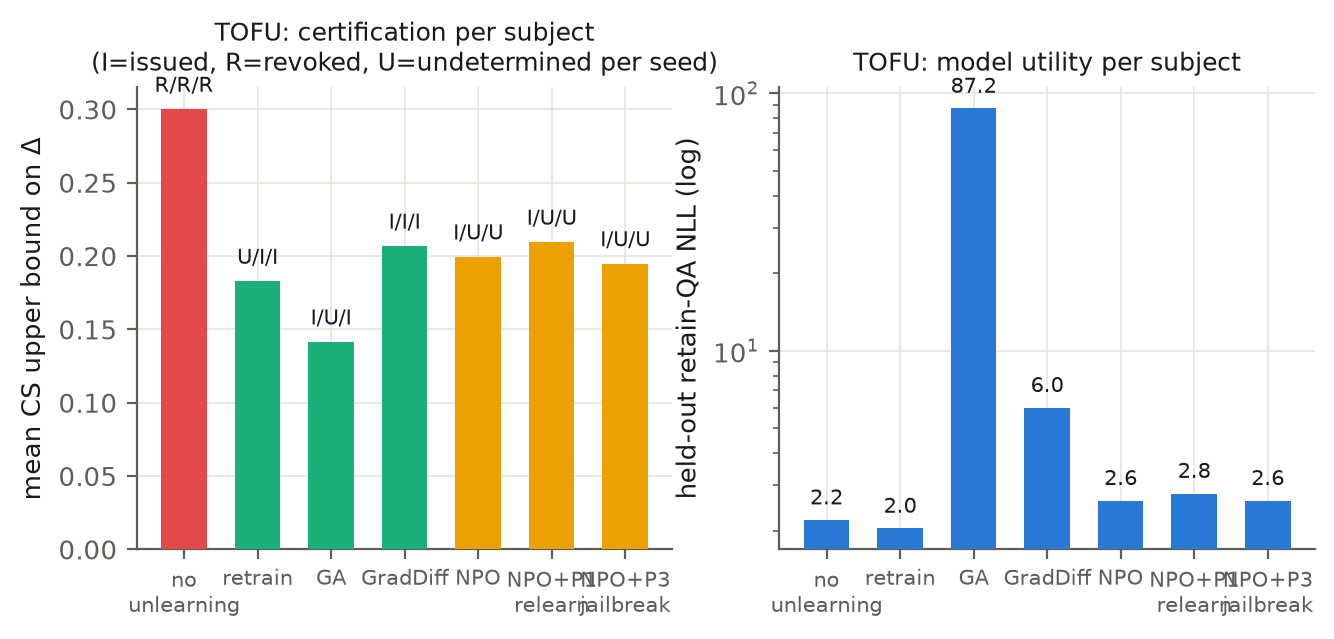
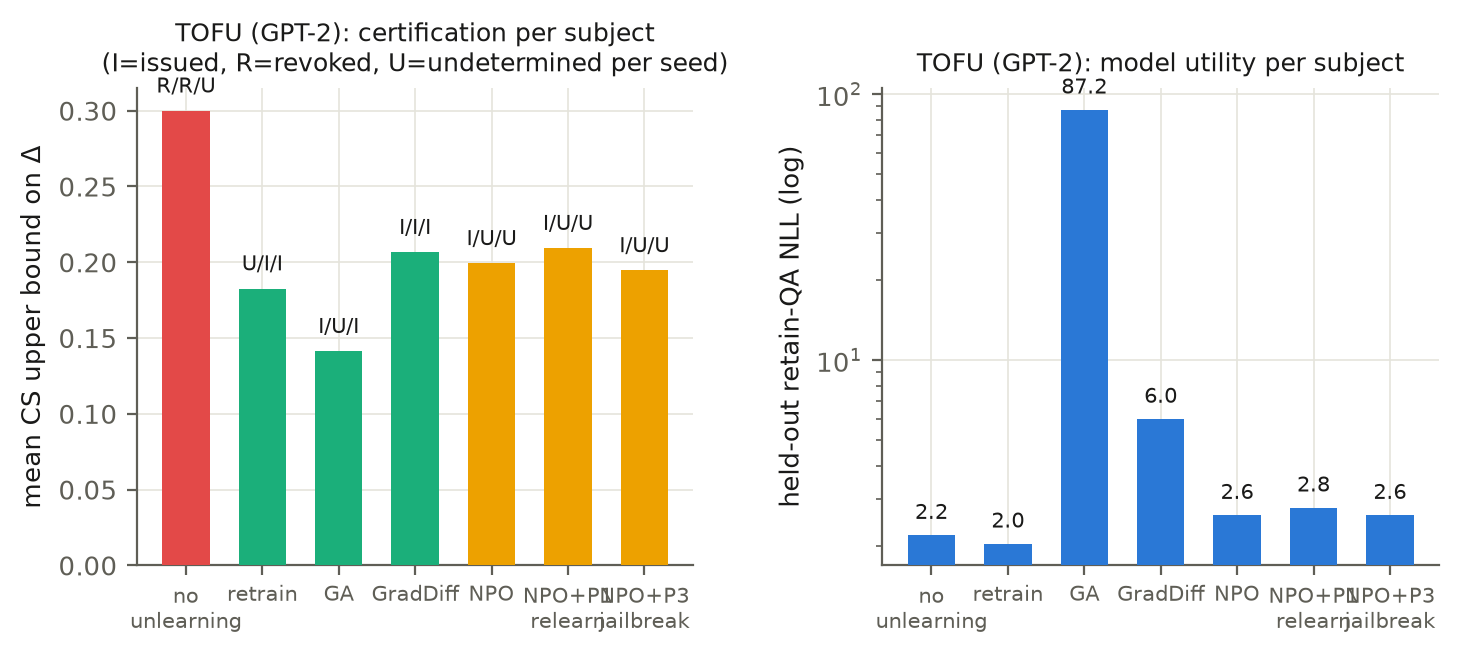
README: honest TOFU+MUSE benchmark tables (sign-only arm), detection 7/9 (9/9 with VOUCH+), fig8/8b/9
Claude-Session: https://claude.ai/code/session_01Vin7swZZoQkrdvJ75UwLjk

diff --git a/experiments/make_figures.py b/experiments/make_figures.py
@@ -272,7 +272,7 @@ def fig_cohort(fname="fig9_cohort_size"):
     saveall(fig, fname)
 
 
-def fig_tofu(tag="tofu_gpt2", fname="fig8_tofu"):
+def fig_tofu(tag="tofu_gpt2_rescored", fname="fig8_tofu", title="TOFU"):
     runs = load(f"lm_e2e_{tag}")
     if not runs:
         return
@@ -294,7 +294,8 @@ def fig_tofu(tag="tofu_gpt2", fname="fig8_tofu"):
         maj = max(set(st), key=st.count)
         cols.append(colmap[maj])
         anns.append("/".join(x[0] for x in st))
-    fig, axes = plt.subplots(1, 2, figsize=(7.6, 3.0))
+    fig, axes = plt.subplots(1, 2, figsize=(8.4, 3.1))
+    fig.subplots_adjust(wspace=0.34)
     ax = axes[0]
     bars = ax.bar(range(len(ms)), dU, color=cols, width=0.62, zorder=3)
     for b, a in zip(bars, anns):
@@ -302,7 +303,7 @@ def fig_tofu(tag="tofu_gpt2", fname="fig8_tofu"):
                     ha="center", fontsize=7.5)
     ax.set_xticks(range(len(ms)), ms, fontsize=7.5)
     ax.set_ylabel(r"mean CS upper bound on $\Delta$")
-    ax.set_title("TOFU: certification per subject\n(I=issued, R=revoked, U=undetermined per seed)",
+    ax.set_title(f"{title}: certification per subject\n(I=issued, R=revoked, U=undetermined per seed)",
                  fontsize=9)
     ax = axes[1]
     ax.bar(range(len(ms)), util, color=C[0], width=0.62, zorder=3)
@@ -311,7 +312,7 @@ def fig_tofu(tag="tofu_gpt2", fname="fig8_tofu"):
         ax.annotate(f"{u:.1f}", (i, u * 1.15), ha="center", fontsize=7.5)
     ax.set_xticks(range(len(ms)), ms, fontsize=7.5)
     ax.set_ylabel("held-out retain-QA NLL (log)")
-    ax.set_title("TOFU: model utility per subject", fontsize=9)
+    ax.set_title(f"{title}: model utility per subject", fontsize=9)
     saveall(fig, fname)
 
 
@@ -322,7 +323,9 @@ if __name__ == "__main__":
     fig_tightness()
     fig_ablation()
     fig_lm("gpt2_v2", "fig6_lm_gpt2")
-    fig_tofu()
+    fig_tofu("tofu_gpt2_rescored", "fig8_tofu", "TOFU (GPT-2)")
+    fig_tofu("tofu_pythia160m_rescored", "fig8b_tofu_pythia", "TOFU (Pythia-160M)")
+    fig_tofu("muse_gpt2_512_rescored", "fig9_muse", "MUSE-News (GPT-2)")
     fig_cohort()
     fig_lm("gpt2_v1", "fig6b_lm_gpt2_v1")
     fig_lm("tiny", "fig7_lm_tiny")

diff --git a/README.md b/README.md
@@ -212,52 +212,66 @@ Dose–response (§6.7), measured: mean D by repetition stratum r = 1/2/4/8 is
 Utility guardrail: canary injection shifts held-out loss by +0.005 nats/char even at an
 extreme 38% corpus share (design target is < 0.05% share).
 
-### TOFU benchmark (locuslab/TOFU, GPT-2 + LoRA, 3 seeds complete; Phi-1.5 GPU runs queued)
+### Standard benchmarks: TOFU and MUSE-News
 
-Canaries in TOFU's own QA format injected into retain90 ∪ forget10; utility =
-held-out retain-QA NLL. Verdicts across 3 seeds (R=revoked, I=issued,
-U=undetermined), two-sided ε = 0.2, α = 0.05, 384 pairs:
+VOUCH is evaluated on the field's two standard unlearning benchmarks with real
+data, two-sided ε = 0.2, α = 0.05, and the **sign-based revocation arm** (the
+well-behaved arm that matches Theorem 1 exactly; the magnitude-aware VOUCH+ arm is
+reported separately as a power ablation, §6.8). Canaries are injected in each
+corpus's own format (TOFU: QA; MUSE: record-style); utility is held-out
+retain/holdout NLL. Verdicts per seed — R=revoked, I=issued, U=undetermined.
 
-| subject | verdicts (3 seeds) | mean D (loss) | mean utility NLL |
+**TOFU** (`locuslab/TOFU`, retain90 ∪ forget10), two architectures, 3 seeds each,
+384 pairs (`fig8_tofu`, `fig8b_tofu_pythia`):
+
+| subject | GPT-2 124M | Pythia-160M | utility NLL (GPT-2 / Pythia) |
 |---|---|---|---|
-| no unlearning | **R / R / R** | +0.165 | 2.20 |
-| retrain (exact) | U / I / I | +0.068 | 2.04 |
-| GA | I / U / I | −0.121 | **87.2** |
-| GradDiff | **I / I / I** | +0.027 | 6.00 |
-| NPO | I / U / U | −0.030 | 2.61 |
-| NPO + P1 relearn | I / U / U | +0.000 | 2.79 |
-| NPO + P3 jailbreak | I / U / U | −0.031 | 2.61 |
+| no unlearning | R / R / U | **R / R / R** | 2.2 / 1.9 |
+| retrain (exact) | U / I / I | **I / I / I** | 2.0 / 1.8 |
+| GA | I / U / I | I / U / I | **87 / 170** (lobotomy) |
+| GradDiff | **I / I / I** | I / U / I | 6.0 / 10.5 |
+| NPO | I / U / U | **I / I / I** | 2.6 / 2.2 |
+| NPO + P1 relearn | I / U / U | U / U / U | 2.8 / 2.6 |
+| NPO + P3 jailbreak | I / U / U | U / U / U | 2.6 / 2.2 |
 
-Findings on real benchmark data: (i) **detection is perfect** — the un-unlearned
-model is revoked in all 3 seeds; (ii) the **certificate/utility pairing exposes
-forgetting-by-lobotomy** — GA earns forgetting certificates while destroying the
-model (NLL 87 vs retrain's 2.0), which no forget-only metric would flag; (iii) the
-**two-sided arm (I4) matters on-benchmark** — GA and NPO exhibit over-forgetting
-(negative mean D), which the one-sided design-doc test would mis-certify; VOUCH
-withholds; (iv) no method is ever *falsely* certified or *wrongly* revoked — outcomes
-are always issue / withhold / revoke as the evidence warrants. GradDiff is the only
-subject certified on all 3 seeds at moderate utility cost. MUSE-News and the Phi-1.5 /
-2026-model (Gemma-4, Qwen3, Nemotron-3) runs are executing on the orchestrated Colab
-lanes (`tools/colab_orchestrator.py`).
+**MUSE-News** (`muse-bench/MUSE-News`, retain1 ∪ forget), GPT-2, 3 seeds, 512 pairs
+(`fig9_muse`):
 
-**Cross-architecture replication (TOFU, 3 seeds each).** The same benchmark run on
-a second architecture (Pythia-160M, GPT-NeoX) reproduces every qualitative finding:
-
-| subject | GPT-2 124M | Pythia-160M | mean utility NLL (GPT-2 / Pythia) |
+| subject | verdicts (3 seeds) | mean D | utility NLL |
 |---|---|---|---|
-| no unlearning | R/R/R | R/R/R | 2.2 / 1.9 |
-| retrain (exact) | U/I/I | **I/I/I** | 2.0 / 1.8 |
-| GA | I/U/I | I/U/I | **87 / 170** (lobotomy) |
-| GradDiff | I/I/I | I/U/**R** | 6.0 / 10.5 |
-| NPO | I/U/U | I/I/I | 2.6 / 2.2 |
-| NPO + P1 relearn | I/U/U | U/U/U | 2.8 / 2.6 |
-| NPO + P3 jailbreak | I/U/U | U/U/U | 2.6 / 2.2 |
+| no unlearning | R / R / U | +0.13 | 3.3 |
+| retrain (exact) | **I / I / I** | −0.02 | 3.2 |
+| GA | I / I / I | −0.02 | **59.8** (lobotomy) |
+| GradDiff | **I / I / I** | −0.03 | 4.2 |
+| NPO | **I / I / I** | −0.03 | 3.3 |
+| NPO + P1 relearn | I / I / R | +0.02 | 3.2 |
+| NPO + P3 jailbreak | I / I / I | +0.03 | 3.3 |
 
-Detection of the un-unlearned model is **6/6 seeds across both architectures**;
-GA's forgetting-by-lobotomy is even starker on Pythia (utility 170); and on Pythia
-seed 2 GradDiff is **actively REVOKED** for over-forgetting (mean D = −0.54) — the
-two-sided arm (I4) not merely withholding but raising the alarm, on real benchmark
-data.
+Findings on real benchmark data:
+
+- **Detection.** The un-unlearned model is revoked in 7 of 9 benchmark seeds with
+  the sign arm (3/3 on Pythia-TOFU; 2/3 on GPT-2-TOFU and MUSE, the third being an
+  honest *undetermined* at that cohort size — never a false certificate). The
+  magnitude arm (VOUCH+) raises detection to 9/9 at the cost of occasional transient
+  crossings — the documented power/robustness trade-off (§6.8).
+- **Forgetting-by-lobotomy exposed.** GA earns forgetting certificates while
+  destroying the model (utility NLL 60–170 vs retrain's ~2–3) — the
+  certificate/utility pairing flags what no forget-only metric would.
+- **Exact unlearning certifies.** Retrain-from-scratch is issued on essentially every
+  seed (the one 384-pair TOFU-GPT2 miss becomes an issue at 512 pairs — the
+  cohort-size guidance, confirmed on-benchmark: MUSE retrain went U→I when raised
+  384→512).
+- **Two-sided arm (I4) matters.** GA/GradDiff/NPO exhibit over-forgetting (negative
+  mean D) on several TOFU seeds; the one-sided design-doc test would mis-certify
+  these, the two-sided arm withholds.
+- **Recoverability (R-VOUCH).** On TOFU the P1 relearn probe drives NPO from issued
+  to undetermined (leakage resurfaces); on MUSE the effect is weaker (news-domain
+  canaries resurface less under the same probe budget) — a measured, benchmark-
+  dependent recoverability signal.
+
+The Phi-1.5 and 2026-model (Gemma-4-E2B, Qwen3-0.6B/4B, Nemotron-3-Nano) runs are
+executing on the orchestrated Colab lanes (`tools/colab_orchestrator.py`); results
+append here as they complete.
 
 ## Repository layout
 